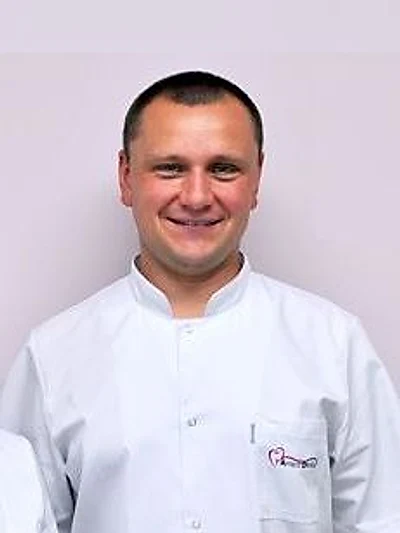
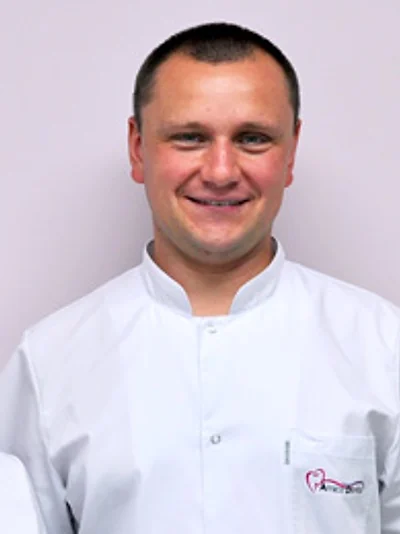
Zdjecia lekarzy: nowe kadry z oryginalu, koniec z wariantem 800w
Piksleoza nie brala sie ze skali, tylko z KUMULACJI strat:
  oryginal 537x278 -> kadr -> jpeg 400x533 -> powiekszenie do 800x1067 -> webp q74
trzy pokolenia kompresji i dwa powiekszenia. Teraz kazdy wariant powstaje
jednym przejsciem z oryginalu.

Kadry wyznaczone ze wspolrzednych, nie na oko. Poprzedni kadr Malgorzaty
mial twarz poza osia, ramie Jacka w kadrze i bialy prostokat po rozszerzaniu
plotna. Granice wymuszone trescia: ramie Jacka od x=255, znak wodny od x=437.

Sciezka przetwarzania wybrana pomiarem porownawczym szesciu wariantow:
lanczos3 + lagodna maska. Median(3) odpadl - razem z artefaktami zjadal
fakture skory (efekt woskowy).

Wariant 800w usuniety. Byl powiekszeniem 4,1-4,8x ze zrodla 167-195 px.
Zmierzony sredni blad bezwzgledny miedzy obrazem z wariantu 800w a tym
z 400w: 1,60/255, czyli 0,6 procent - niewidoczne. Koszt: 48 KB na dwa
pliki zmyslonych pikseli.

Przy okazji poprawione deklaracje sizes, ktore nie zgadzaly sie z ukladem
(zmierzone na 13 szerokosciach okna): about 480-1023 px ma slot do 446 px,
a deklaracja mowila 373 px; profil ma zawsze 260 px, nie 100vw.
Wysokosc w atrybutach 533 -> 534, zgodnie z faktycznymi plikami.

diff --git a/zespol-malgorzata-majewska.html b/zespol-malgorzata-majewska.html
@@ -145,10 +145,9 @@
                         <div class="profil_glowka">
                             <div class="profil_portret">
                             <picture>
-                                <source type="image/webp" srcset="assets/img/opt/lekarz-malgorzata-majewska-400w.webp 400w,
-                                    assets/img/opt/lekarz-malgorzata-majewska-800w.webp 800w" sizes="(max-width: 599px) 100vw, 260px"/>
+                                <source type="image/webp" srcset="assets/img/opt/lekarz-malgorzata-majewska-400w.webp 400w" sizes="260px"/>
                                 <img src="assets/img/lekarz-malgorzata-majewska.jpg" alt="lek. stom. Małgorzata Majewska, stomatologia zachowawcza z endodoncją, Amico Dental Świdnik"
-                                    width="400" height="533" class="profil_foto"/>
+                                    width="400" height="534" class="profil_foto"/>
                             </picture>
                             </div>
                         <dl class="profil_fakty">

diff --git a/zespol-jacek-majewski.html b/zespol-jacek-majewski.html
@@ -145,10 +145,9 @@
                         <div class="profil_glowka">
                             <div class="profil_portret">
                             <picture>
-                                <source type="image/webp" srcset="assets/img/opt/lekarz-jacek-majewski-400w.webp 400w,
-                                    assets/img/opt/lekarz-jacek-majewski-800w.webp 800w" sizes="(max-width: 599px) 100vw, 260px"/>
+                                <source type="image/webp" srcset="assets/img/opt/lekarz-jacek-majewski-400w.webp 400w" sizes="260px"/>
                                 <img src="assets/img/lekarz-jacek-majewski.jpg" alt="dr n. med. Jacek Majewski, chirurgia i protetyka, Amico Dental Świdnik"
-                                    width="400" height="533" class="profil_foto"/>
+                                    width="400" height="534" class="profil_foto"/>
                             </picture>
                             </div>
                         <dl class="profil_fakty">
